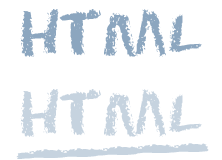
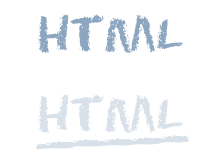
Various tweaks to landing page and header design for sub-pages

Changed region(s): [[0.0811, 0.5625, 0.9459, 1.0], [0.0811, 0.0625, 0.9189, 0.375]]

diff --git a/static/style.css b/static/style.css
@@ -54,7 +54,7 @@ html {
 .two-col {
 	display: block;
 	position: relative;
-	margin-left: 20px;
+	margin-left: 40px;
 }
 	.two-col .col {
 		display: block;
@@ -64,7 +64,7 @@ html {
 		-moz-box-sizing: border-box;
 	}
 	.two-col .col:first-child {
-		left: -20px;
+		left: -40px;
 	}
 	.two-col .col:last-child {
 	}
@@ -89,13 +89,13 @@ html {
 		border-left: 1px dotted #ccc;
 	}
 .two-col.wide-gap {
-	margin-left: 60px;
+	margin-left: 80px;
 }
 	.two-col.wide-gap .col:first-child {
-		left: -60px;
+		left: -80px;
 	}
 	.two-col.wide-gap .rule {
-		width: 60px;
+		width: 80px;
 	}
 
 .two-col-text {
@@ -233,70 +233,71 @@ html {
 
 .page-header {
 	margin-bottom: 40px;
-	padding: 40px 0;
+	padding-top: 40px;
 	border-top: 1px solid #A33500;
-	background: -moz-linear-gradient(bottom, 
-		                             rgba(209, 209, 193, 0),
-		                             rgba(209, 209, 193, .5) 60px);
-	background: rgba(209, 209, 193, .5);
+	text-align: center;
 }
 	.page-header h1 {
 		color: #780e0f;
 		color: #ab181a;
 		font-family: LeagueGothic;
-		font-size: 60px;
+		font-size: 72px;
 		letter-spacing: 1px;
 		text-transform: uppercase;
-		text-shadow: 2px 2px 0 rgba(170, 160, 130, .5);
+		text-shadow: 3px 3px 0 rgba(170, 160, 130, .5);
 	}
 	.page-header p {
-		width: 600px;
-		margin-top: .25em;
+		width: 700px;
+		margin: .25em auto 0;
 		font-size: 20px;
 		line-height: 1.25em;
+		color: #666;
+	}
+	.page-header strong {
+		font-weight: bold;
+		color: #333;
 	}
 	.page-header nav {
 		position: absolute;
-		font-size: 11px;
-		line-height: 17px;
+		font-size: 12px;
+		line-height: 14px;
 	}
 		.page-header nav a {
 			position: relative;
-			top: -22px;
+			top: -20px;
 		}
 		
 .page-header.compact {
 }
 	.page-header.compact h1 {
-		font-size: 48px;
 	}
 	.page-header.compact p {
 		font-size: 16px;
 	}
 
 
-#learn-fineprint {
-	font-size: 10px;
-	line-height: 14px;
+.fineprint {
 	padding: 0 20px;
+	font-size: 11px;
+	line-height: 15px;
+	color: #666;
+}
+
+#learn-fineprint {
+	margin: 40px 20px;
 }
 
 
 /* Front Page */
 
 #landing-header {
-	padding-bottom: 0;
-	background: none;
-	text-align: center;
 }
 	#landing-header p {
-		width: 780px;
-		margin-left: auto;
-		margin-right: auto;
 	}
 
 #landing-wings {
 	position: relative;
+	margin: 40px 0 50px;
 	padding: 14px 16px 14px 16px;
 /*
 	left: -4px;
@@ -362,7 +363,7 @@ html {
 	#landing-wings .wings {
 		position: relative;
 		z-index: 1000;
-		margin: 60px 120px;
+		margin: 40px 120px;
 	}
 	#landing-wings .wings:after {
 		content: '';
@@ -485,32 +486,32 @@ html {
 */
 
 
-#landing-p2pu {
+.p2pu {
 	position: relative;
 	margin: 40px 0;
 	padding: 20px;
 	padding-left: 120px;
 	background: rgba(209, 209, 193, .5);
 }
-	#landing-p2pu h2 {
+	.p2pu h2 {
 		font-size: 14px;
 		line-height: 18px;
 		font-weight: bold;
 	}
-	#landing-p2pu p {
+	.p2pu p {
 		margin-top: 6px;
 		font-size: 12px;
 		line-height: 18px;
 		color: #666;
 	}
-	#landing-p2pu strong {
+	.p2pu strong {
 		color: #333;
 		font-weight: bold;
 	}
-	#landing-p2pu a {
+	.p2pu a {
 		font-weight: bold;
 	}
-		#landing-p2pu a span {
+		.p2pu a span {
 			content: '';
 			position: absolute;
 			left: 20px;
@@ -519,6 +520,11 @@ html {
 			height: 80px;
 			background: url(img/p2pu.png) no-repeat 0 0;
 		}
+		
+
+#landing-p2pu {
+	margin: 40px 20px;
+}
 
 
 /* Learn Pages */

diff --git a/learn-html.html b/learn-html.html
@@ -24,7 +24,7 @@
 
 <header id="learn-header" class="page-header compact"><div class="wrap">
 	<nav>
-		<a href="index.html">&laquo; Go Back</a>
+		<a href="index.html">&laquo; Back to Home</a>
 	</nav>
 	
 	<h1>
@@ -32,7 +32,7 @@
 	</h1>
 	
 	<p>
-		HTML (HyperText Markup Language) is the basic building block of the Web. It describes the words, images, and links that make up web pages. If you want to create content for the Web, HTML is the first thing you should learn.
+		The <strong>HyperText Markup Language</strong> is the basic building block of the Web. It describes the words, images, and links that make up web pages. If you want to create content for the Web, HTML is the first thing you should learn.
 	</p>
 </div></header>
 
@@ -183,7 +183,7 @@
 	</section>
 
 
-	<section id="landing-p2pu">
+	<section class="p2pu">
 		<h2>
 			Tired of learning on your own?<br/>
 			Want to join a community of people learning HTML and other open web technologies?
@@ -195,7 +195,7 @@
 	</section>
 
 	
-	<aside id="learn-fineprint">
+	<aside class="fineprint">
 		<p>
 			These resources are created by forward-thinking companies and web developers who have embraced open standards and best practices for web development. If you think we've omitted a great resource, please tell us about it in the <a href="#">Open Web Forum</a>. We want to share these resources with our international community, so we prefer ones that provide or allow translations, through an open content license such as <a href="#">Creative Commons</a>.
 		</p>

diff --git a/index.html b/index.html
@@ -76,7 +76,7 @@
 		</section>
 
 		
-		<section id="landing-p2pu">
+		<section id="landing-p2pu" class="p2pu">
 			<h2>
 				Tired of learning on your own?<br/>
 				Want to join a community of people learning HTML and other open web technologies?
@@ -88,7 +88,7 @@
 		</section>
 
 
-		<aside id="learn-fineprint">
+		<aside id="learn-fineprint" class="fineprint">
 			<p>
 				These resources are created by forward-thinking companies and web developers who have embraced open standards and best practices for web development. If you think we've omitted a great resource, please tell us about it in the <a href="#">Open Web Forum</a>. We want to share these resources with our international community, so we prefer ones that provide or allow translations, through an open content license such as <a href="#">Creative Commons</a>.
 			</p>
